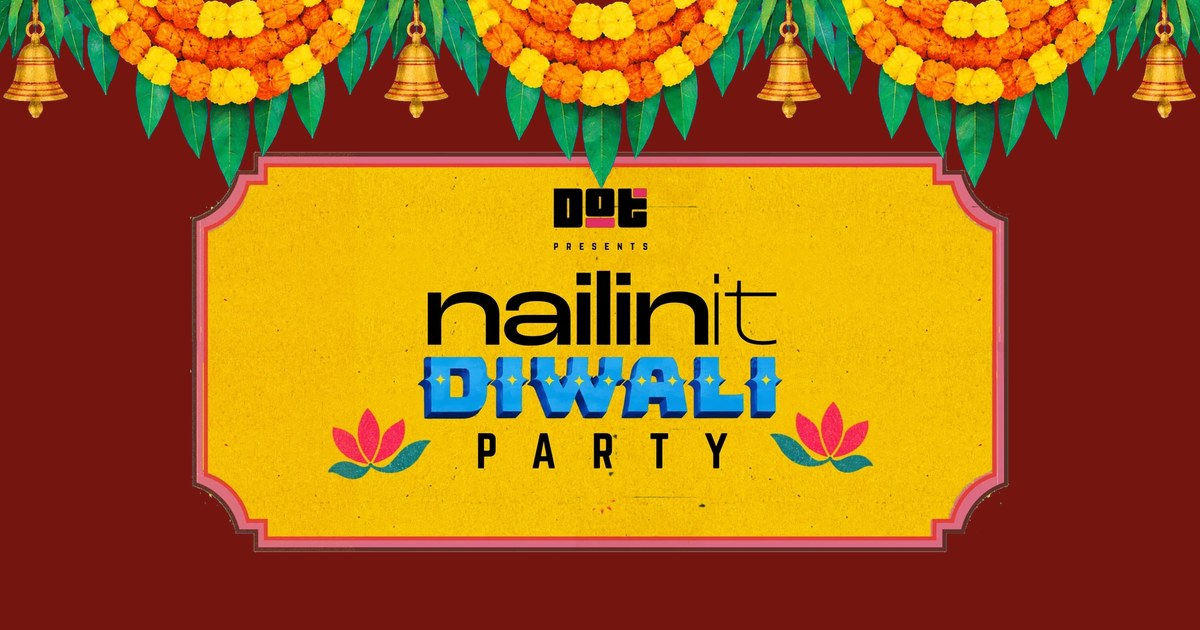
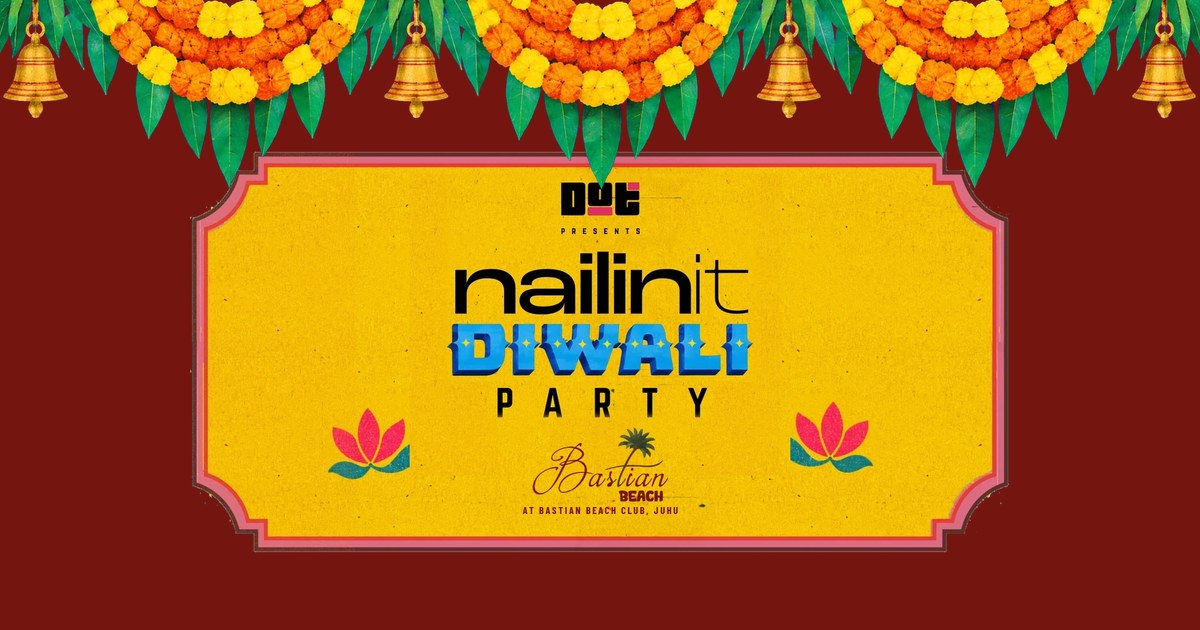
tickets: Bastian Beach on the ticket; partner strip under the ticket; DOT Media proportions

Changed region(s): [[0.3392, 0.2714, 0.6475, 0.8143], [0.6475, 0.6937, 0.6783, 0.7238]]

diff --git a/diwali/style.css b/diwali/style.css
@@ -356,25 +356,26 @@ body.open .gate { transform: translateY(110%); opacity: 0; pointer-events: none;
 
 .caption { max-width: calc(100% - 92px); text-align: center; }
 .after .replay { margin-top: 2px; }
-/* partner strip under the ticket: one row on desktop, a looping slider on phones */
-.after { gap: 10px; }
-.partners { margin-top: 6px; display: flex; flex-direction: column; align-items: center; gap: 8px; }
+/* partner strip right under the ticket (above the welcome line): one row on desktop, a looping slider on phones */
+.partners { position: absolute; left: 0; right: 0; z-index: 2; top: var(--py, 70%); display: flex; flex-direction: column; align-items: center; gap: 8px;
+  opacity: 0; transform: translateY(10px); transition: opacity .5s .15s, transform .5s .15s; pointer-events: none; }
+.cardname.on ~ .partners { opacity: 1; transform: none; }
 .p-head { font: 600 10px/1 var(--sans); letter-spacing: .32em; text-transform: uppercase; color: var(--cream); opacity: .7; }
 .partners ul { list-style: none; margin: 0; padding: 0; display: flex; align-items: flex-end; justify-content: center; gap: 10px 30px; flex-wrap: wrap; max-width: 92vw; }
 .partners li { display: flex; flex-direction: column; align-items: center; gap: 6px; }
 .partners img { display: block; height: 30px; width: auto; }
-.partners .p-bastian img { height: 50px; } .partners .p-chk img { height: 19px; margin-bottom: 9px; } .partners .p-unfltrd img { height: 24px; margin-bottom: 6px; } .partners .p-goyel img { height: 43px; }
+.partners .p-chk img { height: 19px; margin-bottom: 9px; } .partners .p-unfltrd img { height: 24px; margin-bottom: 6px; } .partners .p-goyel img { height: 43px; }
 .partners li span { font-size: 9.5px !important; }
 .partners li span { font: 600 8.5px/1 var(--sans); letter-spacing: .18em; text-transform: uppercase; color: var(--cream); opacity: .6; white-space: nowrap; }
 /* the loop copy only exists for the phone slider */
 .partners li[aria-hidden] { display: none; }
 @media (max-width: 600px) {
-  /* phones: the logos glide by in a loop, lifted clear of the music player in the corner */
-  .after { bottom: calc(env(safe-area-inset-bottom) + 74px); }
+  /* phones: the logos glide by in a loop; the buttons sit clear of the music player */
+  .after { bottom: calc(env(safe-area-inset-bottom) + 70px); }
   .partners { width: 100%; overflow: hidden; -webkit-mask-image: linear-gradient(90deg, transparent, #000 12%, #000 88%, transparent); mask-image: linear-gradient(90deg, transparent, #000 12%, #000 88%, transparent); }
   .partners ul { flex-wrap: nowrap; justify-content: flex-start; gap: 0; width: max-content; max-width: none; animation: pslide 16s linear infinite; }
   .partners li, .partners li[aria-hidden] { display: flex; padding: 0 20px; gap: 6px; }
-  .partners .p-bastian img { height: 40px; } .partners .p-chk img { height: 15px; margin-bottom: 9px; } .partners .p-unfltrd img { height: 19px; margin-bottom: 7px; } .partners .p-goyel img { height: 34px; }
+  .partners .p-chk img { height: 15px; margin-bottom: 9px; } .partners .p-unfltrd img { height: 19px; margin-bottom: 7px; } .partners .p-goyel img { height: 34px; }
   .partners li span { font-size: 8px !important; }
 }
 @keyframes pslide { to { transform: translateX(-50%); } }
@@ -1048,12 +1049,12 @@ body:not(.lit) .decor .kandil .lamp img:not(.bloom) { filter: brightness(.55) sa
 
 /* ═════════ metallic: the invite is foil-printed (gold paper, holo DIWALI, glossy ink) ═════════ */
 .card-foil { position: absolute; inset: 0; pointer-events: none; -webkit-mask: var(--m) center / contain no-repeat; mask: var(--m) center / contain no-repeat; background-size: 260% 260%; background-position: var(--fx, 50%) var(--fy, 50%); }
-.f-gold { --m: url(assets/foil_gold.webp); mix-blend-mode: overlay; opacity: .95;
+.f-gold { --m: url(assets/foil_gold.webp?v=3); mix-blend-mode: overlay; opacity: .95;
   background-image: repeating-linear-gradient(92deg, rgba(255,255,255,.07) 0 1px, transparent 1px 3px),
     linear-gradient(115deg, #6b4508 0%, #f8dc84 16%, #a8781c 30%, #fff4c2 44%, #b58322 56%, #f6d56e 70%, #7c540e 86%, #e9c45c 100%); }
-.f-blue { --m: url(assets/foil_blue.webp); mix-blend-mode: color-dodge; opacity: .55;
+.f-blue { --m: url(assets/foil_blue.webp?v=3); mix-blend-mode: color-dodge; opacity: .55;
   background-image: linear-gradient(125deg, #3f7bff 0%, #b98cff 18%, #ffffff 32%, #6ff2d6 46%, #5aa0ff 60%, #ffd1f0 76%, #3f7bff 100%); }
-.f-ink { --m: url(assets/foil_ink.webp); mix-blend-mode: screen; opacity: .55;
+.f-ink { --m: url(assets/foil_ink.webp?v=3); mix-blend-mode: screen; opacity: .55;
   background-image: linear-gradient(115deg, transparent 38%, rgba(255,250,235,.85) 48%, rgba(255,255,255,.2) 53%, transparent 62%); }
 .card .card-sheen { mix-blend-mode: overlay !important; opacity: .9; }
 
@@ -1427,14 +1428,14 @@ html, body { overscroll-behavior-x: none; }
 .rsvp-form .sign { font-size: 19px; padding: 15px 22px 13px; }
 .rsvp-form .sign:disabled { opacity: .7; }
 .rsvp-form .linkish { display: block; margin: 14px auto 0; color: var(--maroon); opacity: .8; }
-[data-site="party"] .f-gold { --m: url(assets/foil_gold_host.webp); }
-[data-site="party"] .f-blue { --m: url(assets/foil_blue_host.webp); }
-[data-site="party"] .f-ink { --m: url(assets/foil_ink_host.webp); }
+[data-site="party"] .f-gold { --m: url(assets/foil_gold_host.webp?v=3); }
+[data-site="party"] .f-blue { --m: url(assets/foil_blue_host.webp?v=3); }
+[data-site="party"] .f-ink { --m: url(assets/foil_ink_host.webp?v=3); }
 [data-site="party"] .card::after { -webkit-mask-image: url(assets/invite_card_host.webp); mask-image: url(assets/invite_card_host.webp); }
 /* diwali.dotmediabase.com: DOT MEDIA leads the ticket; nailinit is the small credit above DIWALI */
-[data-site="media"] .f-gold { --m: url(assets/foil_gold_media.webp?v=2); }
-[data-site="media"] .f-blue { --m: url(assets/foil_blue_host.webp); }
-[data-site="media"] .f-ink { --m: url(assets/foil_ink_media.webp?v=2); }
+[data-site="media"] .f-gold { --m: url(assets/foil_gold_media.webp?v=3); }
+[data-site="media"] .f-blue { --m: url(assets/foil_blue_host.webp?v=3); }
+[data-site="media"] .f-ink { --m: url(assets/foil_ink_media.webp?v=3); }
 
 /* the outfit sign's label matches kab / kaha (an older pink-sign override had put it in Teko) */
 .sgn.s-pink .o-k { font-family: var(--title) !important; font-size: 4.4cqw !important; letter-spacing: .14em !important; font-weight: 400 !important; }

diff --git a/diwali/index.html b/diwali/index.html
@@ -32,12 +32,12 @@
 /* every visit starts at the envelope: the page is scroll-locked until the reveal, so a restored scroll position would strand you mid-page */
 try { history.scrollRestoration = 'manual'; } catch (e) {} window.scrollTo(0, 0); addEventListener('pageshow', () => { if (document.body && document.body.classList.contains('locked')) window.scrollTo(0, 0); });
 window.SITE = (/^(localhost|127\.)/.test(location.hostname) && new URLSearchParams(location.search).get('site')) || (/^party\./.test(location.hostname) ? 'party' : /dotmediabase\./.test(location.hostname) ? 'media' : 'dot'); document.documentElement.dataset.site = SITE;   /* ?site= works only on localhost, for testing */
-window.CARD = SITE === 'party' ? 'assets/invite_card_host.webp' : SITE === 'media' ? 'assets/invite_card_media.webp?v=2' : 'assets/invite_card.webp';
+window.CARD = SITE === 'party' ? 'assets/invite_card_host.webp?v=3' : SITE === 'media' ? 'assets/invite_card_media.webp?v=3' : 'assets/invite_card.webp?v=3';
 (l => { l.rel = 'preload'; l.as = 'image'; l.href = CARD; document.head.append(l); })(document.createElement('link'));</script>
 <link rel="preconnect" href="https://fonts.googleapis.com">
 <link rel="preconnect" href="https://fonts.gstatic.com" crossorigin>
 <link href="https://fonts.googleapis.com/css2?family=Bakbak+One&family=Bungee&family=Teko:wght@400;500;600&family=Barlow:wght@500;600;700&family=Barlow+Condensed:wght@500;600;700&family=Palanquin+Dark:wght@400;600;700&display=swap" rel="stylesheet">
-<link rel="stylesheet" href="style.css?v=1793097807">
+<link rel="stylesheet" href="style.css?v=1793111721">
 <style>
 /* loader: inline so it paints before anything else arrives */
 #ldr { position: fixed; inset: 0; z-index: 100; display: grid; place-items: center; background: radial-gradient(90% 70% at 50% 45%, #3a0a06 0%, #1a0503 70%, #0e0302 100%); color: #f7e6c8; transition: opacity .6s ease, visibility 0s linear .6s; }
@@ -107,6 +107,15 @@ window.CARD = SITE === 'party' ? 'assets/invite_card_host.webp' : SITE === 'medi
     <!-- the invite inside the envelope: the deck's AAO poster -->
     <div id="card" class="card" aria-hidden="true"><img id="cardImg" alt="DOT presents nailinit Diwali Party"><script>document.getElementById('cardImg').src = CARD; if (SITE === 'party') document.getElementById('cardImg').alt = 'nailinit Diwali Party, hosted by Khushi, Tanishq and Shubham'; if (SITE === 'media') document.getElementById('cardImg').alt = 'DOT Media presents the Diwali Party';</script><i class="card-foil f-gold"></i><i class="card-foil f-blue"></i><i class="card-foil f-ink"></i><i class="card-sheen"></i></div>
     <div id="cardname" class="cardname"><span class="foil" data-name>dost</span>... swagat <small>(with swag)</small><em class="host-line">hosted by <b>Khushi, Tanishq &amp; Shubham</b></em></div>
+    <div id="partners" class="partners" aria-label="partners">
+        <span class="p-head">powered by</span>
+        <ul>
+          <li class="p-chk"><img src="assets/partners/chk.webp" alt="CHK" decoding="async"><span>footwear partner</span></li>
+          <li class="p-unfltrd"><img src="assets/partners/unfltrd.webp" alt="un:fltrd" decoding="async"><span>beauty partner</span></li>
+          <li class="p-goyel"><img src="assets/partners/goyel.webp" alt="Goyel &amp; Goyal" decoding="async"><span>legal partner</span></li>
+          <!-- pouring partner: logo to come -->
+        </ul><script>/* phones scroll the strip as a loop: a second, hidden copy of the logos */ (function (u) { [...u.children].forEach(function (li) { var c = li.cloneNode(true); c.setAttribute('aria-hidden', 'true'); u.appendChild(c); }); })(document.currentScript.previousElementSibling);</script>
+      </div>
 
     <canvas id="env" aria-label="Your envelope"></canvas>
 
@@ -135,16 +144,6 @@ window.CARD = SITE === 'party' ? 'assets/invite_card_host.webp' : SITE === 'medi
     <div id="after" class="after">
       <button id="seeDetails" class="cta small" type="button">scroll 4 जानकारी ↓</button>
       <button id="replay" class="replay" type="button">↺ light it again</button>
-      <div class="partners" aria-label="partners">
-        <span class="p-head">powered by</span>
-        <ul>
-          <li class="p-bastian"><img src="assets/partners/bastian.webp" alt="Bastian Beach" decoding="async"><span>location partner</span></li>
-          <li class="p-chk"><img src="assets/partners/chk.webp" alt="CHK" decoding="async"><span>footwear partner</span></li>
-          <li class="p-unfltrd"><img src="assets/partners/unfltrd.webp" alt="un:fltrd" decoding="async"><span>beauty partner</span></li>
-          <li class="p-goyel"><img src="assets/partners/goyel.webp" alt="Goyel &amp; Goyal" decoding="async"><span>legal partner</span></li>
-          <!-- pouring partner: logo to come -->
-        </ul><script>/* phones scroll the strip as a loop: a second, hidden copy of the logos */ (function (u) { [...u.children].forEach(function (li) { var c = li.cloneNode(true); c.setAttribute('aria-hidden', 'true'); u.appendChild(c); }); })(document.currentScript.previousElementSibling);</script>
-      </div>
     </div>
 
   </div>
@@ -344,10 +343,10 @@ window.CARD = SITE === 'party' ? 'assets/invite_card_host.webp' : SITE === 'medi
   <button class="mx-pill" id="mxPlay" type="button" aria-label="Pause music"><span class="mx-eq" aria-hidden="true"><i></i><i></i><i></i><i></i></span><b id="mxTitle">mohalla diwali mix</b><span class="mx-ic" id="mxIc">❚❚</span></button>
   <a class="mx-link" id="mxLink" href="#" target="_blank" rel="noopener" aria-label="Open the playlist on YouTube">↗</a>
 </div>
-<script src="config.js?v=1793097807"></script>
-<script src="lib.js?v=1793097807"></script>
-<script src="app.js?v=1793097807"></script>
-<script src="games.js?v=1793097807"></script>
+<script src="config.js?v=1793111721"></script>
+<script src="lib.js?v=1793111721"></script>
+<script src="app.js?v=1793111721"></script>
+<script src="games.js?v=1793111721"></script>
 <!-- Cloudflare Web Analytics (cookieless page views, both hosts): dash → Analytics & Logs → Web Analytics → diwali.nailin.it -->
 <script defer src="https://static.cloudflareinsights.com/beacon.min.js" data-cf-beacon='{"token": "a5d5840e60434566ad096fb1208ac78d"}'></script>
 </body>

diff --git a/diwali/app.js b/diwali/app.js
@@ -89,7 +89,7 @@ const fontsReady = Promise.all(['600 20px "Teko Display"', '500 20px "Teko Text"
 const stage = $('#stage'), envC = $('#env'), card = $('#card');
 const boxEl = $('#box'), drawer = boxEl.querySelector('.drawer');
 const matchEl = $('#match'), fxC = $('#fx'), fx = fxC.getContext('2d');
-const decorEl = $('#decor'), nightEl = $('#night'), nctx = nightEl.getContext('2d'), glowEl = $('#glow'), capEl = $('#caption'), nameEl = $('#cardname'), ghost = $('#ghost');
+const decorEl = $('#decor'), nightEl = $('#night'), nctx = nightEl.getContext('2d'), glowEl = $('#glow'), capEl = $('#caption'), nameEl = $('#cardname'), partnersEl = $('#partners'), ghost = $('#ghost');
 const autoBtn = $('#autobtn'), afterEl = $('#after'), stepsEl = [...document.querySelectorAll('#steps li')];
 const css = (el, k, v) => el.style.setProperty(k, v);
 
@@ -124,15 +124,17 @@ function layout() {
 
   // the AAO poster: starts inside the envelope, grows into the hero
   C2.w = EB.w * .86; C2.h = C2.w / POSTER_AR;
-  // the ticket shares the screen with the welcome line (+ "hosted by" on party.nailin.it) and, below it,
-  // the buttons + partner strip pinned to the bottom; size it to whatever room is left between the toran and those
+  // under the ticket: the partner strip, then the welcome line (+ "hosted by" on party.nailin.it), then the
+  // buttons pinned to the bottom; the ticket gets whatever room is left between the toran and all that
   const host = window.SITE === 'party';
-  const below = (vw > 600 ? 210 : 270) + (host ? 112 : 66), top = Math.max(64, vh * .08);
+  const PH = vw > 600 ? 100 : 98;      // partner strip between the ticket and the welcome line
+  const below = (vw > 600 ? 150 : 175) + PH + (host ? 112 : 66), top = Math.max(64, vh * .08);
   const room = vh - top - below;
   C2.fh = Math.max(110, Math.min(room, (vw * .92) / POSTER_AR, 420)); C2.fs = C2.fh / C2.h;
   C2.fy = top + Math.max(0, room - C2.fh) * (vw > 600 ? .45 : .8) + C2.fh / 2;   // phones: sit low, close to the welcome + buttons
   css(card, '--cw', C2.w + 'px'); css(card, '--ch', C2.h + 'px');
-  css(nameEl, '--ny', (C2.fy + C2.fh / 2 + 20) + 'px');
+  css(partnersEl, '--py', (C2.fy + C2.fh / 2 + 16) + 'px');
+  css(nameEl, '--ny', (C2.fy + C2.fh / 2 + 16 + PH) + 'px');
 
   // matchbox
   const bw = wide ? Math.min(vw * .24, 360) : Math.min(vw * .56, 300), bh = bw / SLEEVE_AR;

diff --git a/diwali/make.html b/diwali/make.html
@@ -58,8 +58,8 @@
     <table id="tbl" hidden><thead><tr><th>Name</th><th>Link</th><th></th></tr></thead><tbody></tbody></table>
   </section>
 </main>
-<script src="config.js?v=1793097807"></script>
-<script src="lib.js?v=1793097807"></script>
+<script src="config.js?v=1793111721"></script>
+<script src="lib.js?v=1793111721"></script>
 <script>
 (() => {
   const $ = s => document.querySelector(s);
